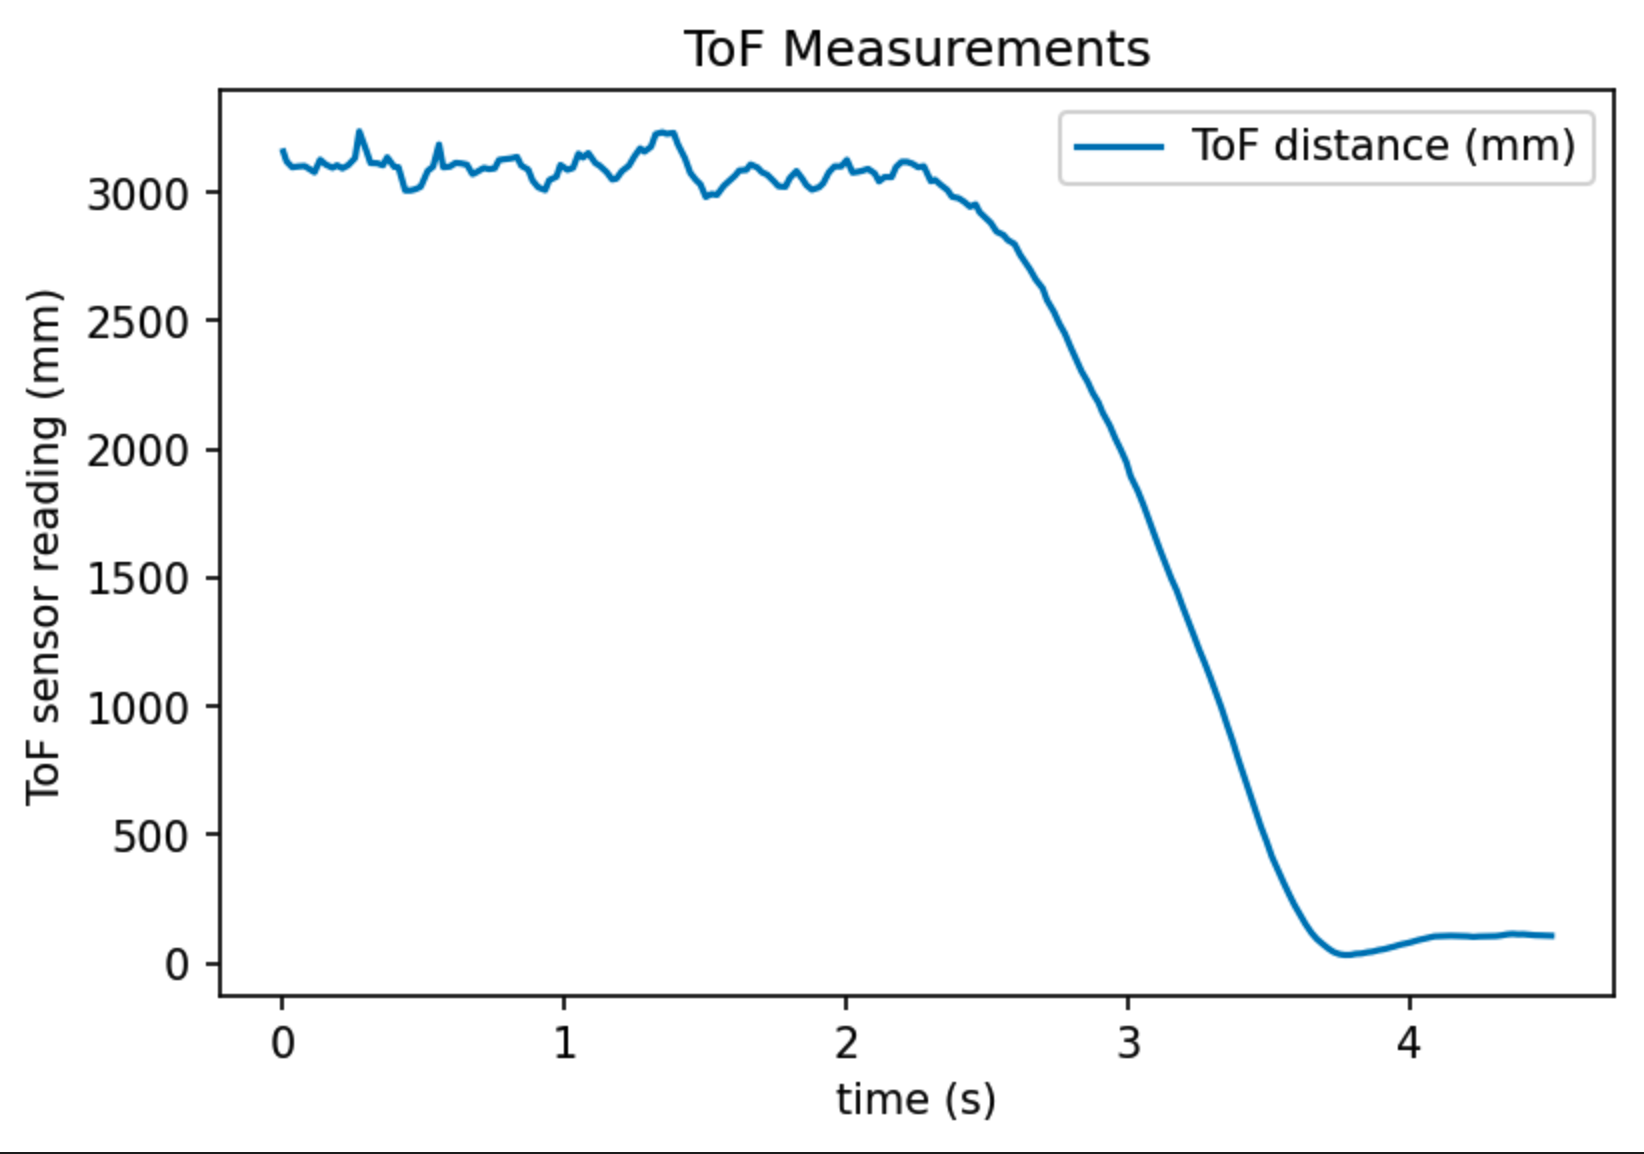
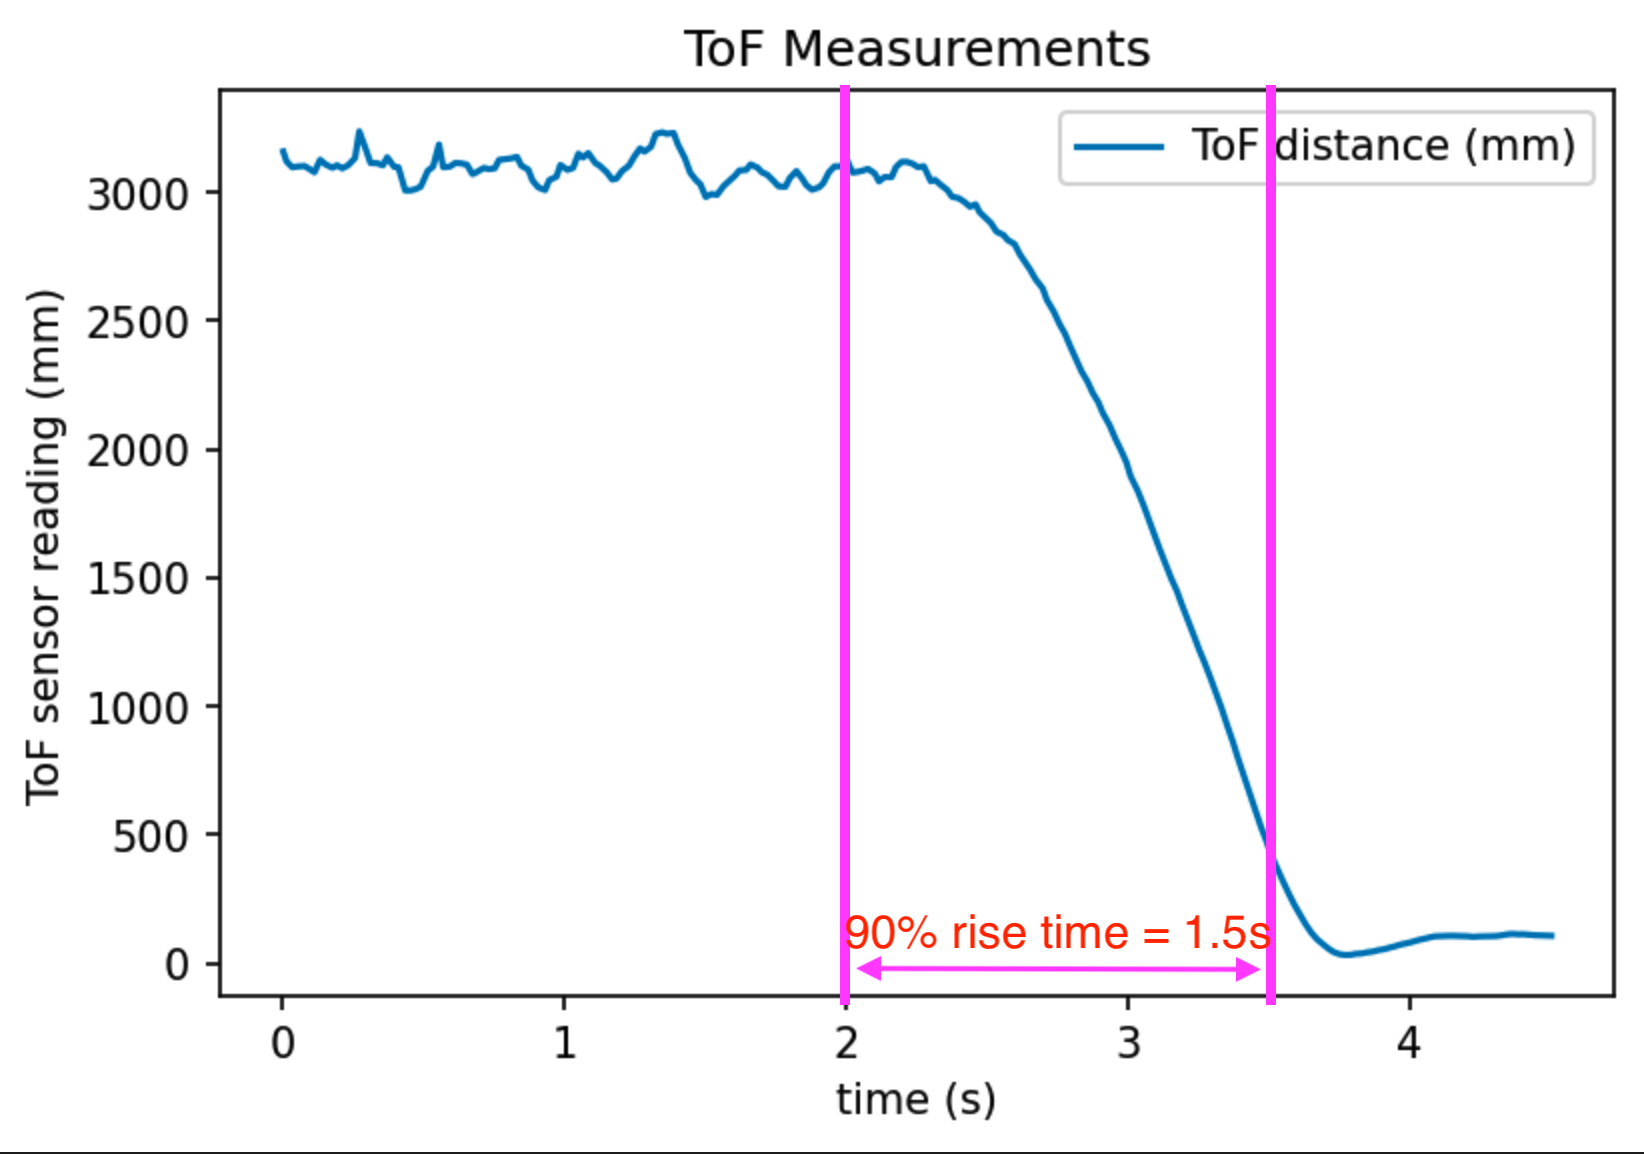
lab7 complete

Changed region(s): [[0.4964, 0.0624, 0.7755, 0.8735]]

diff --git a/lab7.html b/lab7.html
@@ -59,22 +59,46 @@
                 <div class="row gx-4 gx-lg-5 justify-content-center">
                     <div class="col-md-10 col-lg-8 col-xl-7">
                         <p>
-                            Intro paragraph.
+                            In this lab, we will implement Kalman filter on our robot. The Kalman filter is an algorithm to use a series of measurements observed over time, incorporating noise, and produce an estimate of an unknown variable such that the estimation is better than only looking at a single measurement. In other words, this is a form of sensor fusion. I will not go into the specifics of the algorithm or the derivations of the equations here as there are numerous great courses and videos online in which experts (instead of me) will do a much better job explaning.
+                        </p>
+
+                        <p>
+                            The fact that Kirstin taught Kalman filter in class is not the only reason (though being an important one) why we are implementing it in this lab. In lab 6, we implemented PID control. In the stunt task I choose, "drift much?", the robot will drive fast towards a wall, and initiate a turn at certain distance such that the robot drifts and drives back without touching the wall. In lab 6, PID is used to initiate the drift (control orientation of the robot), but open loop control is used to determine when the robot should initiate the turn. A <code>delay()</code> function is used when the robot is driving towards the wall. This is not reliable, and I will need to use a slow speed to prevent the robot from crashing into the wall. I could use the ToF sensor to measure the distance between the robot and the wall, but the sampling frequency of the ToF sensor is slow, and it will not keep up with the fast speed of the robot.
+                        </p>
+
+                        <p>
+                            Therefore, we will use Kalman filter to get a better estimate of the position of the robot. The Kalman filter in this lab will incorporate the ToF sensor measurement and a motion model. The goal is to have an accurate estimate of the robot's position even when a ToF sensor measurement is not yet available.
                         </p>
 
                         <h2 class="section-heading">Step response to find steady state speed and 90% rise time</h2>
 
-                        <iframe width="820" height="515"
-                        src="https://www.youtube.com/embed/Fea3NtJamUM">
-                        </iframe>
-                        <span class="caption text-muted">Robot running towards a wall while measuring ToF sensor readings.</span>
+                        <p>
+                            First, we will need to build a motion model for the robot. The robot's motion is simple: it drives toward the wall with a fixed motor input (the PWM value). The picture below comes from the instructor(Kirstin)'s slide on the state space equation for this task (robot driving towards a wall). It does a good job explaning how it works.
+
+                            <a href="#!"><img class="img-fluid" src="assets/img/lab7/motion-model-slide.png" width = 600 alt="..." /></a>
+                            <span class="caption text-muted"> The instructor's slide on state space equation of this task. </span>
+                        </p>
+
+                        <p>
+                            Looking at the state space equation on the bottom right, we will need to estimate <code>d</code> and <code>m</code>. We do so by doing a step response (the robot sits still in the beginning, and at certain point in time it gives the motors a fixed input) and measure the ToF sensor readings. As described in the slide, we can find <code>d</code> as <code>u/x_dot</code>, which is the steady state speed of the robot. Then we can find the 90% rising time calculate <code>m</code> by doing <code>m = -dt_90 / ln(0.1)</code>. The matrices containing <code>d</code> and <code>m</code> in the state space equation are also referred to as the <code>A</code> and <code>B</code> matrices. If we know <code>d</code> and <code>m</code>, then we know all the terms in the state space equation.
+                        </p>
+
+                        <p>
+                            The video below shows my robot being programmed to run towards the wall. The robot is constantly collecting ToF sensor readings. It starts from still, and at a certain point its motor PWM input becomes <code>180</code>. This lasts for <code>1.5 seconds</code>, and the robot begins to brake to prevent a hard crash into the wall. At the end, the robot sends back the ToF sensor readings and the timestamp at which the readings are taken.
+
+                            <iframe width="820" height="515"
+                            src="https://www.youtube.com/embed/Fea3NtJamUM">
+                            </iframe>
+                            <span class="caption text-muted">Robot running towards a wall while measuring ToF sensor readings.</span>
+                        </p>
+
+                        <p>
+                            I am attaching the measured ToF readings and calculated velocity below. The ToF measurement curve is processed with a <a href="https://en.wikipedia.org/wiki/Savitzky%E2%80%93Golay_filter" class="link-primary">Savitzky-Golay filter</a> to make it look less noisy. Since the timestamp data is also recorded by the robot, robot velocity is simply calculated by dividing the difference of two consecutive ToF measurements by the timestamp difference.
+                        </p>
 
 
                         <a href="#!"><img class="img-fluid" src="assets/img/lab7/step-resp-tof.png" width = 600 alt="..." /></a>
                         <span class="caption text-muted"> ToF sensor readings as the robot runs toward the wall. </span>
-
-                        <a href="#!"><img class="img-fluid" src="assets/img/lab7/step-resp-motor.png" width = 600 alt="..." /></a>
-                        <span class="caption text-muted"> Step motor output (PWM=180) as a function of time. </span>
 
                         <a href="#!"><img class="img-fluid" src="assets/img/lab7/step-resp-velocity.png" width = 600 alt="..." /></a>
                         <span class="caption text-muted"> Velocity extracted from ToF sensor readings. </span>
@@ -82,13 +106,65 @@
                         <a href="#!"><img class="img-fluid" src="assets/img/lab7/step-resp-velocity-zoom.png" width = 600 alt="..." /></a>
                         <span class="caption text-muted"> Velocity zoomed-in to time = [2.5, 4.5] seconds range. </span>
 
+                        <p>
+                            We can easily estimate the 90% rise time <code>dt_90 = 1.5 seconds</code>, and the steady state speed <code>d = 3500 mm/s</code> just by looking at these plots and drawing some lines.
+                        </p>
 
-                        <h2 class="section-heading">A and B matrix</h2>
+                        <p>
+                            The motor output is also recorded for sanity check as shown in the picture below.
+                        </p>
+
+                        <a href="#!"><img class="img-fluid" src="assets/img/lab7/step-resp-motor.png" width = 600 alt="..." /></a>
+                        <span class="caption text-muted"> Step motor output (PWM=180) as a function of time. </span>
+
+                        <p>
+                            Plug in <code>d = 3500 mm/s</code> and <code>dt_90 = 1.5 s</code> into the equations in the slides, we can calculate the <code>A</code> and <code>B</code> matrices to be:
+
+                            <a href="#!"><img class="img-fluid" src="assets/img/lab7/ABmatrix.png" width = 300 alt="..." /></a>
+                        </p>
+
+                        <p>
+                            Since we are already talking about <code>A</code> and <code>B</code> matrices, I'm also noting here that <code>C = [-1 0]</code> as the robot is driving towards the wall.
+                        </p>
 
                         <h2 class="section-heading">Python implementation</h2>
 
+                        <p>
+                            The next step is to implement the Kalman filter in Python and do some sanity checking work. The picture below shows the Kalman filter's algorithm. We already have <code>A, B, C</code> matrices. <code>u(t)</code> and <code>z(t)</code> are data from the robot. <code>miu(t-1)</code> comes from the last estimate. All that is left in the algorithm are state uncertainty and measurement noise.
+
+                            <a href="#!"><img class="img-fluid" src="assets/img/lab7/kf-algorithm.png" width = 600 alt="..." /></a>
+                            <span class="caption text-muted"> Kalman Filter algorithm from lecture slides. </span>
+                        </p>
+
+                        <p>
+                            For the Kalman filter to work, we need to specify the process noise and sensor noise covariance matrices. This sounds complicated. To put it simple, we will need to specify how much we trust the motion model versus my sensor measurements. I am choosing <code>sigma_pos = 20mm</code>, <code>sigma_speed = 20 mm/s</code>, and <code>sigma_sensor = 20 mm</code>. For these parameters, the covariance matrices <code>sig_u</code> and <code>sig_z</code> looks like:
+                            <a href="#!"><img class="img-fluid" src="assets/img/lab7/covariance-matrices.png" width = 200 alt="..." /></a>
+                        </p>
+
+                        <p>
+                            What this means is that we believe the ToF sensor will most likely be less than 20mm off. This applies to the postion estimate of the robot as well. I choose these numbers arbitrarily, but I believe they are reasonable estimates.
+                        </p>
+
+                        <p>
+                            Python implementation is simply putting the algorithm into code. We first initialize the initial position and estimates, and iterate over the time-of-flight data, running the Kalman filter in every step. I record the position estimates in an array to plot later. 
+                            <a href="#!"><img class="img-fluid" src="assets/img/lab7/kf-outer-loop.png" width = 600 alt="..." /></a>
+                        </p>
+
+                        <p>
+                            The function <code>kf()</code> takes four arguments: the last estimate, the motor input, the estimated noise from last step, and the drag. It produces the updated new position/speed estimate and uncertainty. My kf function implementation is modified from that provided in the lab instruction <a href="https://cei-lab.github.io/ECE4960-2022/Lab7.html" class="link-primary">here</a>.
+                            <a href="#!"><img class="img-fluid" src="assets/img/lab7/kf-function.png" width = 600 alt="..." /></a>
+                        </p>
+
+                        <p>
+                            We can see that with my arbitrary selection of process noise and measurement noise, the Kalman filter estimation and the ToF sensor measurements agree pretty well. This makes sense because a ToF measurement is available in every step for this particular run. This will not be true on a real robot. However, this serves as a good sanity check for my selection of matrices <code>A, B, C</code> and my covariance matrices. It tells me that my Kalman filter implementation is likely correct.
+                        </p>
+
                         <a href="#!"><img class="img-fluid" src="assets/img/lab7/kf-20-20-20.png" width = 600 alt="..." /></a>
                         <span class="caption text-muted"> Kalman filter position estimation overlayed with true ToF readings. (sigma_1 = 20, sigma_2 = 20, sigma_z = 20) </span>
+
+                        <p>
+                            Though there is no need to adjust my covariance matrices, I changed the covariance matrices to different values to see how that changes the Kalman filter curve. Below are two plots with different covariance matrices values. The parameters chosen are provided in the caption.
+                        </p>
 
                         <a href="#!"><img class="img-fluid" src="assets/img/lab7/kf-20-20-0.png" width = 600 alt="..." /></a>
                         <span class="caption text-muted"> Kalman filter position estimation overlayed with true ToF readings. (sigma_1 = 20, sigma_2 = 20, sigma_z = 0) </span>
@@ -96,17 +172,77 @@
                         <a href="#!"><img class="img-fluid" src="assets/img/lab7/kf-20-20-100.png" width = 600 alt="..." /></a>
                         <span class="caption text-muted"> Kalman filter position estimation overlayed with true ToF readings. (sigma_1 = 20, sigma_2 = 20, sigma_z = 100) </span>
 
+                        <p>
+                            In the first picture, measurement noise is chosen to be 0 mm. This means that we always trust the ToF sensor readings being correct. In this plot, the Kalman filter estimation and the ToF measurement curve overlaps exactly with each other. This makes sense because if the measurement noise is 0, then the Kalman filter will always believe in the ToF measurements.
+                        </p>
+
+                        <p>
+                            In the second picture, measurement noise is chosen to be 100 mm. This means that we trust the motion model more than the ToF measurements. In this case, we see that the Kalman filter prediction curve has larger difference compared to when the measurement noise is 20 mm. This also agrees with my original prediction.
+                        </p>
+                    
                         <h2 class="section-heading">Robot (C++) implementation</h2>
 
-                        <h2 class="section-heading">Robot KF filter results and discussion</h2>
+                        <p>
+                            Finally, we are putting the Kalman filter on the robot! Here is the general workflow of the robot.
 
-                        <a href="#!"><img class="img-fluid" src="assets/img/lab7/kf-real.png" width = 600 alt="..." /></a>
-                        <span class="caption text-muted"> Robot-calculated Kalman filter estimation of position overlayed with robot ToF readings. When ToF reading is not available at a timestamp, the plot uses the last available ToF reading, thus creating the stepping effect on the ToF distance plot. </span>
+                            <ul class="list-unstyled">
+                                <ul>
+                                    <li>The robot starts with motor input = 0. It sits still. It is collecting ToF sensor value.</li>
+                                    <li>At time = 1 second, the robot starts driving forward towards the wall with PWM = 180.</li>
+                                    <li>When the robot is driving forward, if ToF sensor reading is available, it runs both the prediction and update step of the Kalman filter.</li>
+                                    <li>If ToF sensor reading is not available, it runs only the prediction step of the Kalman filter. Only the motion model is taken into consideration.</li>
+                                    <li>The robot logs down both the ToF reading, the KF estimate of position, and the timestamp. Whenever the ToF reading is not available, the last available ToF sensor reading is logged.</li>
+                                    <li>At the end of the execution, the robot applies active brake and sends data back to the PC.</li>
+                                </ul>
+                            </ul>
+                        </p>
+
+                        <p>
+                            Here I will show my Kalman filter implementation in the robot. This is important because going from Python to CPP is not trivial work!! First, all the constant parameters and matrices are defined. These constants will not be updated during runtime with the exception of <code>sig</code> and <code>x_val</code>, which will be updated by the KF function.
+
+                            <a href="#!"><img class="img-fluid" src="assets/img/lab7/kf-constants.png" width = 600 alt="..." /></a>
+                        </p>
+
+                        <p>
+                            Before running the actual Kalman filter algorithm, the <code>kf_init</code> function is called to initialize <code>x_val</code>. This function is called with the last ToF reading before the robot starts driving.
+
+                            <a href="#!"><img class="img-fluid" src="assets/img/lab7/kf-init.png" width = 400 alt="..." /></a>
+                        </p>
+
+                        <p>
+                            Then it is the actual KF algorithm. My KF implementation is adapted from Anya's code. Please checkout Anya's amazing website <a href="https://anyafp.github.io/ece4960/" class="link-primary">here</a>. In addition to the <code>dt</code> argument, which specifies the time elapsed between two <code>kf()</code> function calls, the function also has two optional parameters: <code>only_predictive</code> and <code>sensor_measurement</code>. When <code>only_predictive</code> is set to true, it means a ToF sensor reading is not yet available, and the Kalman filter only runs the predictive step. Otherwise, the Kalman filter runs both the predictive and update step, and it incorporates the ToF sensor measurement in the argument <code>sensor_measurement</code>. After execution of this function, values in <code>x_val</code> and <code>sig</code> will be updated.
+                            <a href="#!"><img class="img-fluid" src="assets/img/lab7/kf-function-cpp.png" width = 600 alt="..." /></a>
+                        </p>
+
+                        <p>
+                            Here is a video of the robot driving forward with the Kalman filter running. This video looks very similar to the step response video, but they are different!! Trust me!
+                        </p>
 
                         <iframe width="820" height="515"
                         src="https://www.youtube.com/embed/gUvlS06wlGA">
                         </iframe>
                         <span class="caption text-muted">Robot running towards a wall while running KF filter (motion model + ToF readings).</span>
+
+                        <h2 class="section-heading">Robot KF filter results and discussion</h2>
+
+                        <p>
+                            Here is the plot showing ToF measurement and KF estimate of position over time when running on a real robot. First, we are noticing some stepping effect in the ToF measurement curve. This is due to the fact that ToF curve will refer to the last available reading when a new reading is not yet available.
+                        </p>
+
+                        <a href="#!"><img class="img-fluid" src="assets/img/lab7/kf-real.png" width = 600 alt="..." /></a>
+                        <span class="caption text-muted"> Robot-calculated Kalman filter estimation of position overlayed with robot ToF readings. When ToF reading is not available at a timestamp, the plot uses the last available ToF reading, thus creating the stepping effect on the ToF distance plot. </span>
+
+                        <p>
+                            Then we can look at the KF prediction. We can see that the KF prediction is very smooth, much better than the ToF sensor measurement curve. Even when a new ToF sensor reading is not available, it keeps decreasing smoothly (updated by referring to the motion model). Its estimation also agrees very well with new ToF measurement when a new measurement becomes available. This is saying that the KF model is working very well (even better than I have expected!) 
+                        </p>
+
+                        <p>
+                            This surprisingly good result makes me confident that the robot will have a good estimate of its position when it's driving towards a wall despite the slow ToF sensor sampling frequency. In lab 8, the Kalman filter will be incorporated with PID control to signal the turning/drifting point. 
+                        </p>
+
+                        <p>
+                            (Weirdly, I feel like I should write something to wrap up this post. However, I believe what's contained in this post is more than enough for anyone to reproduce my results, and it is convincing enough to show that my implementation works very well, so I will leave it this way haha)
+                        </p>
 
                     </div>
                 </div>
